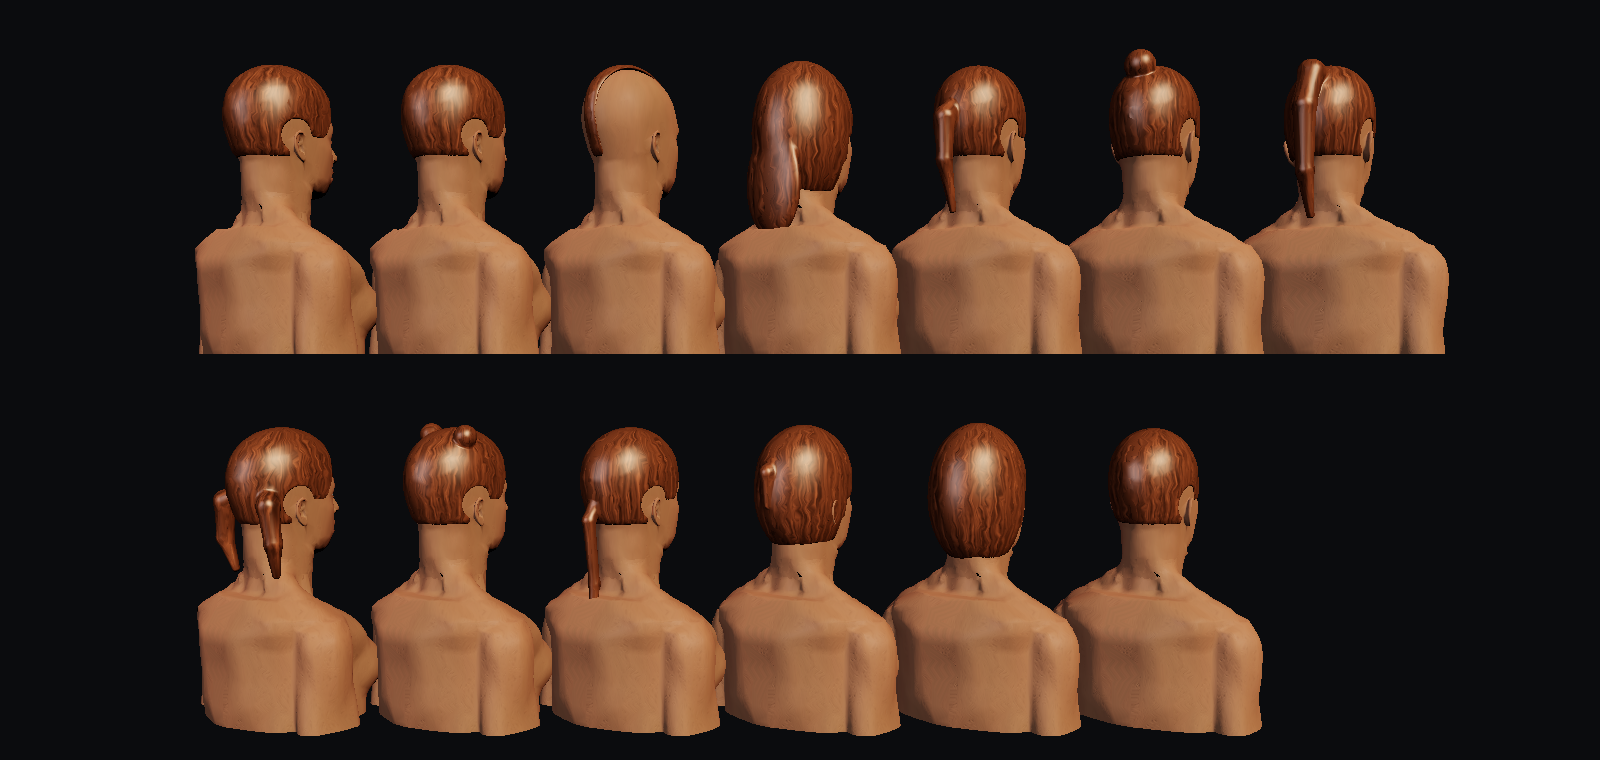
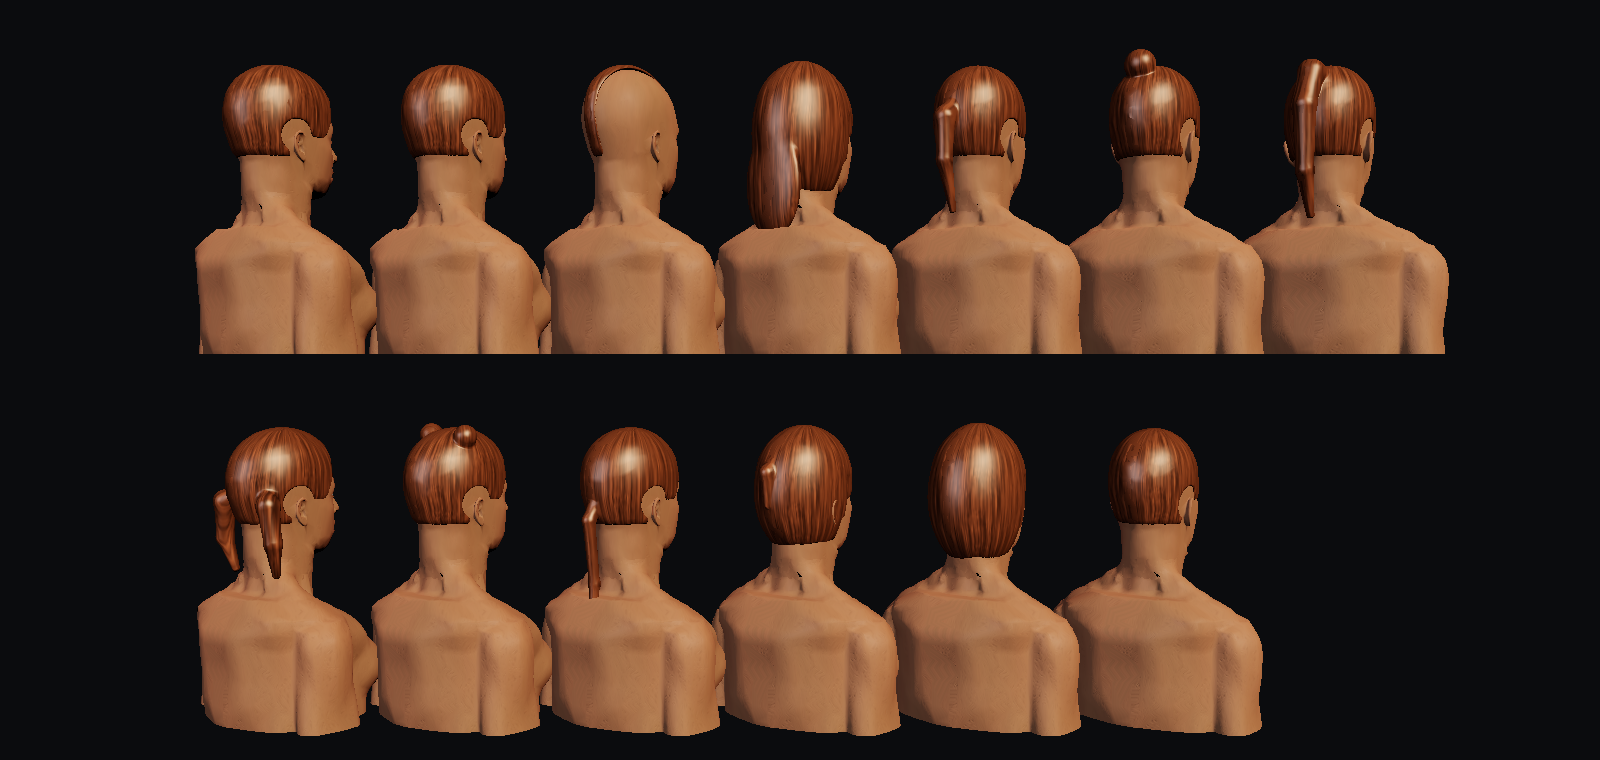
Lay a game humanoid's hair strands again after decimation
Decimation moves the hair shell's vertices but keeps their texture
coordinates, so the strands laid round the shell bent into zigzags, as
wood grain. `reproject_uvs` gives each vertex its coordinates again
where it ends up: `u` round the vertical axis, on its old side of the
seam, and `v` up the height on the scale the full shell had. The
strands now run straight down every style.

Claude-Session: https://claude.ai/code/session_018jvzBQjF8zrFKDN6ZrEwJC

diff --git a/docs/wiki/Game-humanoid.md b/docs/wiki/Game-humanoid.md
@@ -83,7 +83,7 @@ These were measured on four cores. Most of the build is the hair's shell, at `ha
 
 `triangles` sets the skin's budget. The body's skin takes 76 % of it, the hair's shell 12 % and each hand 6 %. A decimated skin keeps its colors: each vertex takes those of the nearest vertex of the full skin. At 20,000 triangles a frame takes 52 ms. A material with textures and light through thin skin costs about twice the time of the default Phong.
 
-The hair's shell is drawn in a Phong material with a map of strands, six times round the head and twice down it. Its texture coordinates run down the hair, so the strands do too.
+The hair's shell is drawn in a Phong material with a map of strands, six times round the head and twice down it. Its texture coordinates run down the hair, so the strands do too. Decimation moves the shell's vertices but keeps their coordinates, which bent the strands into zigzags. So `reproject_uvs` lays the coordinates again where the vertices end up, and the strands stay straight.
 
 The hair's shell keeps only its outer face. Its inner face lies 0.8 mm under the scalp, so the skin always hides it. With `outer_only=True`, `head_hair_from_dimensions` drops each triangle whose three corners lie more than 0.4 mm under the skin. That is about 40 % of the shell's triangles. So the hair's whole budget goes to the face that shows, and the decimation has less to do.
 
